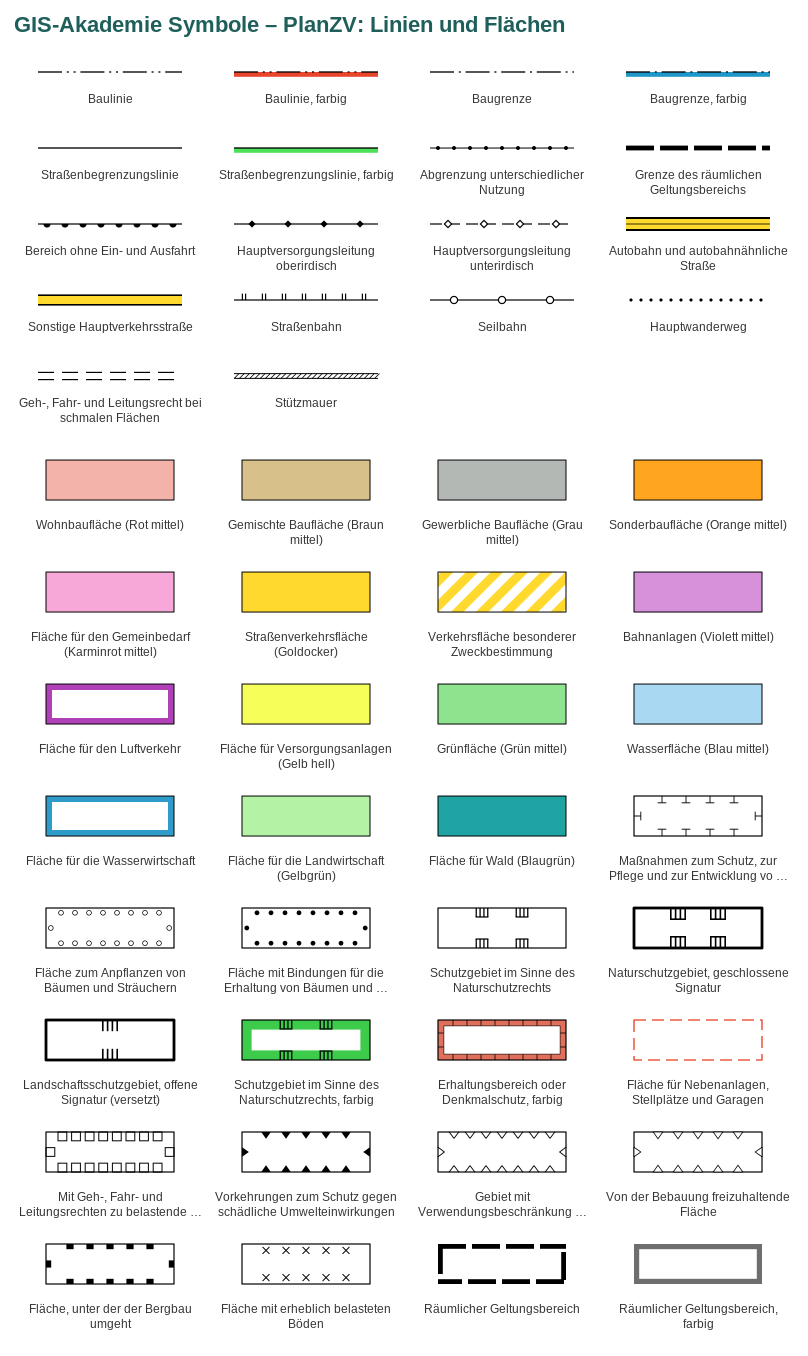
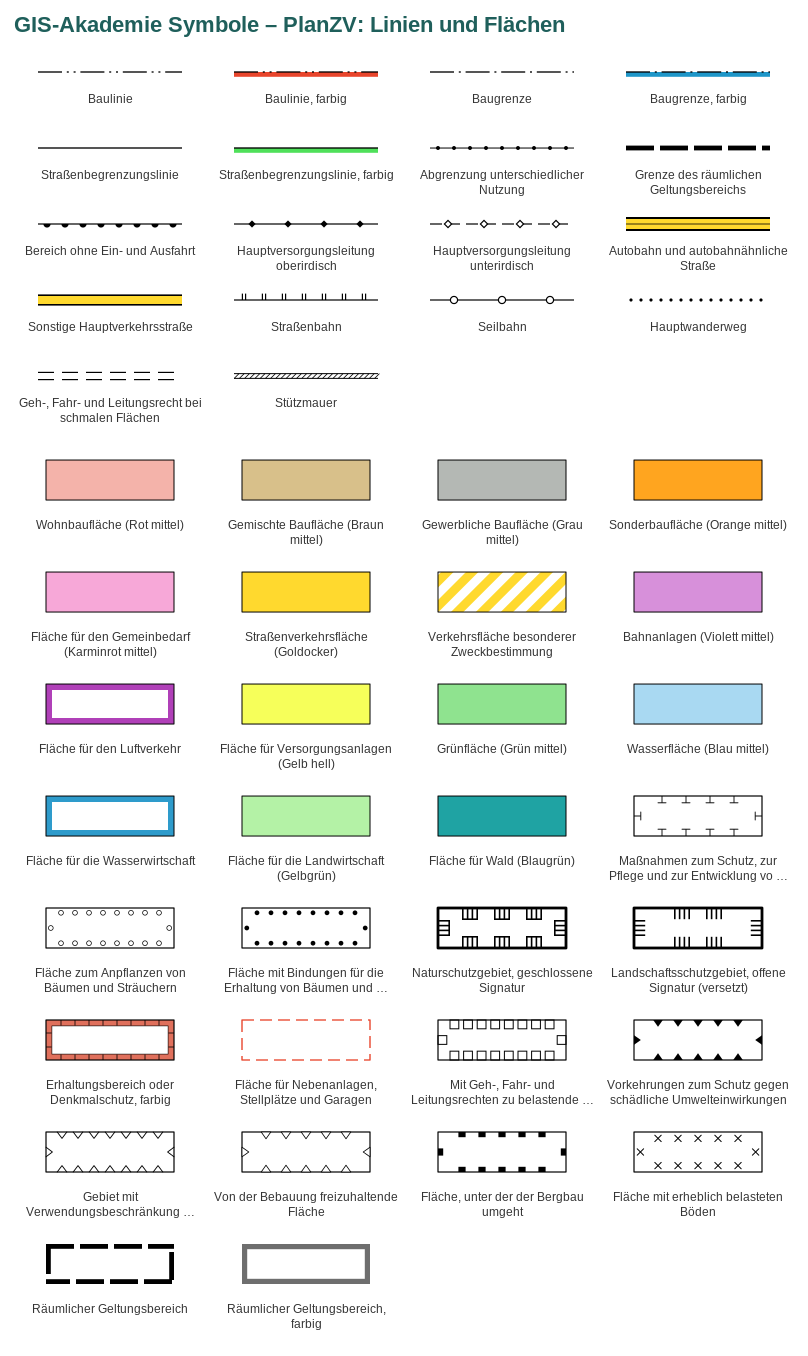
feat: Randzeichen dichter, kurze Kanten mit mittigem Zeichen; PlanZV-Schutzgebiet nach Anlage entfernt
Raster für NSG und LSG 8 statt 10 mm. Kanten, in die das Raster nicht passt, bekommen ab doppeltem
Eckenabstand ein einzelnes Zeichen in der Mitte. Die beiden Symbole 'Schutzgebiet im Sinne des
Naturschutzrechts' (schwarz-weiß und farbig) entfallen zugunsten des NSG/LSG-Paars.

diff --git a/tools/qstil.py b/tools/qstil.py
@@ -68,15 +68,18 @@ def _var(name, value, body):
     return f"with_variable('{name}', {value}, {body})"
 
 
-def ecken_ausdruecke(abstand, ecke, winkel=40, glaetten=0.5):
+def ecken_ausdruecke(abstand, ecke, start=None, winkel=40, glaetten=0.5):
     """Zwei QGIS-Ausdruecke fuer zwei ineinander gesetzte Geometriegeneratoren (Einheit Millimeter):
     1. trennt Umriss oder Linie an Knicken ueber `winkel` Grad (und am Ringanfang) in Abschnitte auf,
     2. kuerzt jeden Abschnitt beidseitig so, dass ein ganzzahliges Vielfaches von `abstand` bleibt und
-       mindestens `ecke` frei ist; Abschnitte, die fuer eine Markierung zu kurz sind, entfallen.
+       mindestens `ecke` frei ist. Passt so keine Markierung hinein, der Abschnitt ist aber mindestens
+       2 * `ecke` lang, bekommt er eine einzelne Markierung in der Mitte (ueber eine kurze, nach hinten
+       verlaengerte Hilfslinie, auf der die Markierung im Abstand `start` genau die Mitte trifft).
     Zwei flache Stufen statt eines Ausdrucks: Der Parser von QGIS 3.x braucht je Ebene verschachtelter
     Funktionsaufrufe etwa doppelt so lange (ab rund 20 Ebenen ueber eine Sekunde je Symbol, und das bei
     jedem Kopieren des Symbols) - die Symbolauswahl friert sonst ein."""
     i, d = repr(float(abstand)), repr(float(ecke))
+    s = repr(float(abstand / 2 if start is None else start))
     # Vorab in Millimetern glaetten (Douglas-Peucker): Bei kleinem Massstab zaehlt sonst jeder kleine Knick als
     # Ecke, die Abschnitte werden zu kurz und die Zeichen fallen weg. Die Zeichen sitzen damit hoechstens
     # `glaetten` mm neben der gezeichneten Linie.
@@ -93,11 +96,14 @@ def ecken_ausdruecke(abstand, ecke, winkel=40, glaetten=0.5):
                       _var("cd", cd, "collect_geometries(array_foreach(generate_series(0, array_length(@cd)), "
                                      f"{stueck}))"))
                + "))")
-    t = f"(length(@g) - floor((length(@g) - 2 * {d}) / {i}) * {i}) / 2"
+    nutz = f"floor((length(@g) - 2 * {d}) / {i}) * {i}"
+    t = f"(length(@g) - {nutz}) / 2"
+    mitte = f"extend(line_substring(@g, length(@g) / 2 - 0.01, length(@g) / 2 + 0.01), {s}, 0.5)"
     kuerzen = ("collect_geometries(array_filter(array_foreach("
                "generate_series(1, coalesce(num_geometries($geometry), 1)), "
                + _var("g", "coalesce(geometry_n($geometry, @element), $geometry)",
-                      f"if(length(@g) - 2 * {d} < {i}, NULL, line_substring(@g, {t}, length(@g) - {t}))")
+                      f"if(length(@g) < 2 * {d}, NULL, if({nutz} <= {s}, {mitte}, "
+                      f"line_substring(@g, {t}, length(@g) - {t})))")
                + "), @element IS NOT NULL))")
     return trennen, kuerzen
 
@@ -209,7 +215,7 @@ def symbol_xml(typ, name, ebenen, cid, ind="    "):
                 "offset_unit": "MM", "rotate": 1, "average_angle_length": 0, "average_angle_unit": "MM",
                 "place_on_every_part": 1, "ring_filter": 0}, i6,
                 _symbol("marker", f"@@{sub}@0@0", _marker_xml(p["marker"], i6 + "    ", cid), i6 + "  "))
-            trennen, kuerzen = ecken_ausdruecke(p["raster"], p["ecken"])
+            trennen, kuerzen = ecken_ausdruecke(p["raster"], p["ecken"], p["start"])
             innen = _layer("GeometryGenerator", {"SymbolType": "Line", "geometryModifier": kuerzen, "units": "MM"},
                            i4, _symbol("line", f"@{sub}@0", ml, i4 + "  "))
             out += _layer("GeometryGenerator", {"SymbolType": "Line", "geometryModifier": trennen, "units": "MM"},
@@ -332,6 +338,10 @@ def _ebene_svg(art, p, pts, zu, lookup, clip):
                 k = math.floor((ln - 2 * p["ecken"]) / p["raster"] + 1e-9)
                 ang = math.degrees(math.atan2(b[1] - a[1], b[0] - a[0]))
                 rand, pos = (ln - k * p["raster"]) / 2, p["start"]
+                if ln >= 2 * p["ecken"] and k * p["raster"] <= p["start"]:  # kurze Kante: ein Zeichen mittig
+                    out.append(f'<g transform="translate({_n((a[0] + b[0]) / 2)},{_n((a[1] + b[1]) / 2)}) '
+                               f'rotate({_n(ang)})">{m}</g>')
+                    continue
                 while k > 0 and pos < k * p["raster"] - 1e-6:  # QGIS setzt am Abschnittsende keine Markierung
                     t, pos = (rand + pos) / ln, pos + p["abstand"]
                     out.append(f'<g transform="translate({_n(a[0] + t * (b[0] - a[0]))},{_n(a[1] + t * (b[1] - a[1]))}) '

diff --git a/tools/sym_planzv.py b/tools/sym_planzv.py
@@ -244,7 +244,7 @@ def um(name, abstand, groesse=5.0, dy=0):  # Umgrenzung: Linie mit um_-Zeichen a
     return [linie(K0, 0.3), marken(sv(name, groesse, dy=dy), abstand, ecken=0.4 * groesse)]
 
 
-def sgb(name, start, raster=10.0, groesse=10.0):  # Schutzgebiet: Gabeln innen, Beginn auf dem Raster waehlbar
+def sgb(name, start, raster=8.0, groesse=10.0):  # Schutzgebiet: Gabeln innen, Beginn auf dem Raster waehlbar
     return [linie(K0, 0.7), marken(sv(name, groesse), raster, start=start, ecken=3.0, raster=raster)]
 
 
@@ -297,13 +297,10 @@ FLAECHEN = [
     ("Maßnahmen zum Schutz, zur Pflege und zur Entwicklung von Natur und Landschaft", um("um_massnahmen_natur", 6)),
     ("Fläche zum Anpflanzen von Bäumen und Sträuchern", um("um_anpflanzung", 3.5, 4.0, dy=1.2)),
     ("Fläche mit Bindungen für die Erhaltung von Bäumen und Sträuchern", um("um_erhaltung", 3.5, 4.0, dy=1.2)),
-    ("Schutzgebiet im Sinne des Naturschutzrechts", um("um_schutzgebiet", 10, 8.0)),
     # Zwei Schutzgebiete an gemeinsamer Grenze: gleiches Raster, das zweite ein halbes Raster versetzt, damit
     # die Gabeln beider Flaechen beiderseits der Linie auf Luecke stehen.
-    ("Naturschutzgebiet, geschlossene Signatur", sgb("um_schutzgebiet", 5.0)),
-    ("Landschaftsschutzgebiet, offene Signatur (versetzt)", sgb("um_schutzgebiet_offen", 10.0)),
-    ("Schutzgebiet im Sinne des Naturschutzrechts, farbig",
-     [band("#3CCB4A", 2.4), linie(K0, 0.3), marken(sv("um_schutzgebiet", 8.0), 10, ecken=3.2)]),
+    ("Naturschutzgebiet, geschlossene Signatur", sgb("um_schutzgebiet", 4.0)),
+    ("Landschaftsschutzgebiet, offene Signatur (versetzt)", sgb("um_schutzgebiet_offen", 8.0)),
     ("Erhaltungsbereich oder Denkmalschutz, farbig",
      [band(K0, 1.55), band("#E0705C", 1.4), marken(mk("line", 1.4, K0, rw=0.2, dy=0.7), 3.5, ecken=1.5), linie(K0, 0.3)]),
     ("Fläche für Nebenanlagen, Stellplätze und Garagen", [linie(ROT, 0.35, [3, 1.5])]),

diff --git a/README.md b/README.md
@@ -1,12 +1,12 @@
 # GIS-Akademie Symbolbibliothek für QGIS
 
-1025 Punktsymbole (SVG) sowie 500 Linien- und Flächensymbole in zwanzig Sammlungen, aufgebaut als Repository
+1025 Punktsymbole (SVG) sowie 498 Linien- und Flächensymbole in zwanzig Sammlungen, aufgebaut als Repository
 für das QGIS-Plugin **Resource Sharing**. Alle Symbole sind Eigenentwicklungen der GIS-Akademie und stehen
 unter [CC BY 4.0](https://creativecommons.org/licenses/by/4.0/deed.de).
 
 | Sammlung | ID | Punkte | Linien | Flächen | Inhalt |
 |---|---|---|---|---|---|
-| PlanZV | `gisak_planzv` | 106 | 18 | 32 | Planzeichen für Bauleitpläne in Anlehnung an die Anlage zur PlanZV |
+| PlanZV | `gisak_planzv` | 106 | 18 | 30 | Planzeichen für Bauleitpläne in Anlehnung an die Anlage zur PlanZV |
 | Strom | `gisak_strom` | 51 | 14 | 7 | Stationen, Masten, Kabelgarnituren, Schaltzeichen, Leitungen nach Spannungsebene |
 | Erneuerbare Energien | `gisak_eeg` | 43 | 10 | 14 | Wind- und Solarparkplanung, Bioenergie, Wasserkraft, Wärme, Netzanschluss |
 | Naturschutz | `gisak_naturschutz` | 58 | 9 | 19 | Schutzgebiete, Arten und Fundpunkte, Kompensation, Erfassung |
@@ -103,7 +103,7 @@ die Linie umdrehen.
 
 **Ecken bleiben frei:** Bei den Umgrenzungen mit Randzeichen prüft das Symbol die Geometrie beim Zeichnen: Der
 Umriss wird zuerst um bis zu 0,5 mm geglättet, dann an jedem Knick über 40° aufgetrennt, und die Zeichen werden auf jeder Kante mittig verteilt, mit
-Abstand zu den Ecken. Kanten, die für ein Zeichen zu kurz sind, bleiben leer; an Bögen aus vielen kurzen
+Abstand zu den Ecken. Kurze Kanten bekommen ein einzelnes Zeichen in der Mitte, sehr kurze bleiben leer; an Bögen aus vielen kurzen
 Stücken laufen die Zeichen durch. Dafür nutzt das Symbol einen Geometriegenerator in Millimetern (ab QGIS 3.24),
 das Ergebnis hängt also vom Kartenmaßstab ab und passt sich beim Zoomen an. Schwellenwinkel und Eckenabstand
 stehen im Ausdruck des Geometriegenerators und lassen sich dort ändern.
@@ -206,7 +206,7 @@ Für die Beschriftung der Vorschaubilder genügt notfalls Arial.
   Farbwerte sind danach gewählt und nicht verbindlich. Nicht enthalten sind unter anderem die Flächen für
   Aufschüttungen und Abgrabungen und der Einfahrtbereich. Die Umgrenzung von Schutzgebieten (Nr. 13.3) zeigt die
   Anlage mit innen geschlossenen Strichgruppen und lässt „Differenzierungen in der Umgrenzungssignatur“ zur
-  Unterscheidung der Schutzgebiete zu, ohne sie festzulegen. Deshalb gibt es zusätzlich ein Paar für
+  Unterscheidung der Schutzgebiete zu, ohne sie festzulegen. Als Flächensymbol gibt es ein Paar für
   aneinandergrenzende Schutzgebiete, wie es in Plänen verbreitet ist: „Naturschutzgebiet“ mit geschlossenen und
   „Landschaftsschutzgebiet“ mit offenen Strichgruppen (`um_schutzgebiet_offen`), jeweils auf der Innenseite. Beide
   nutzen dasselbe Raster, das zweite ist um ein halbes Raster versetzt; an einer gemeinsamen Grenze stehen die
